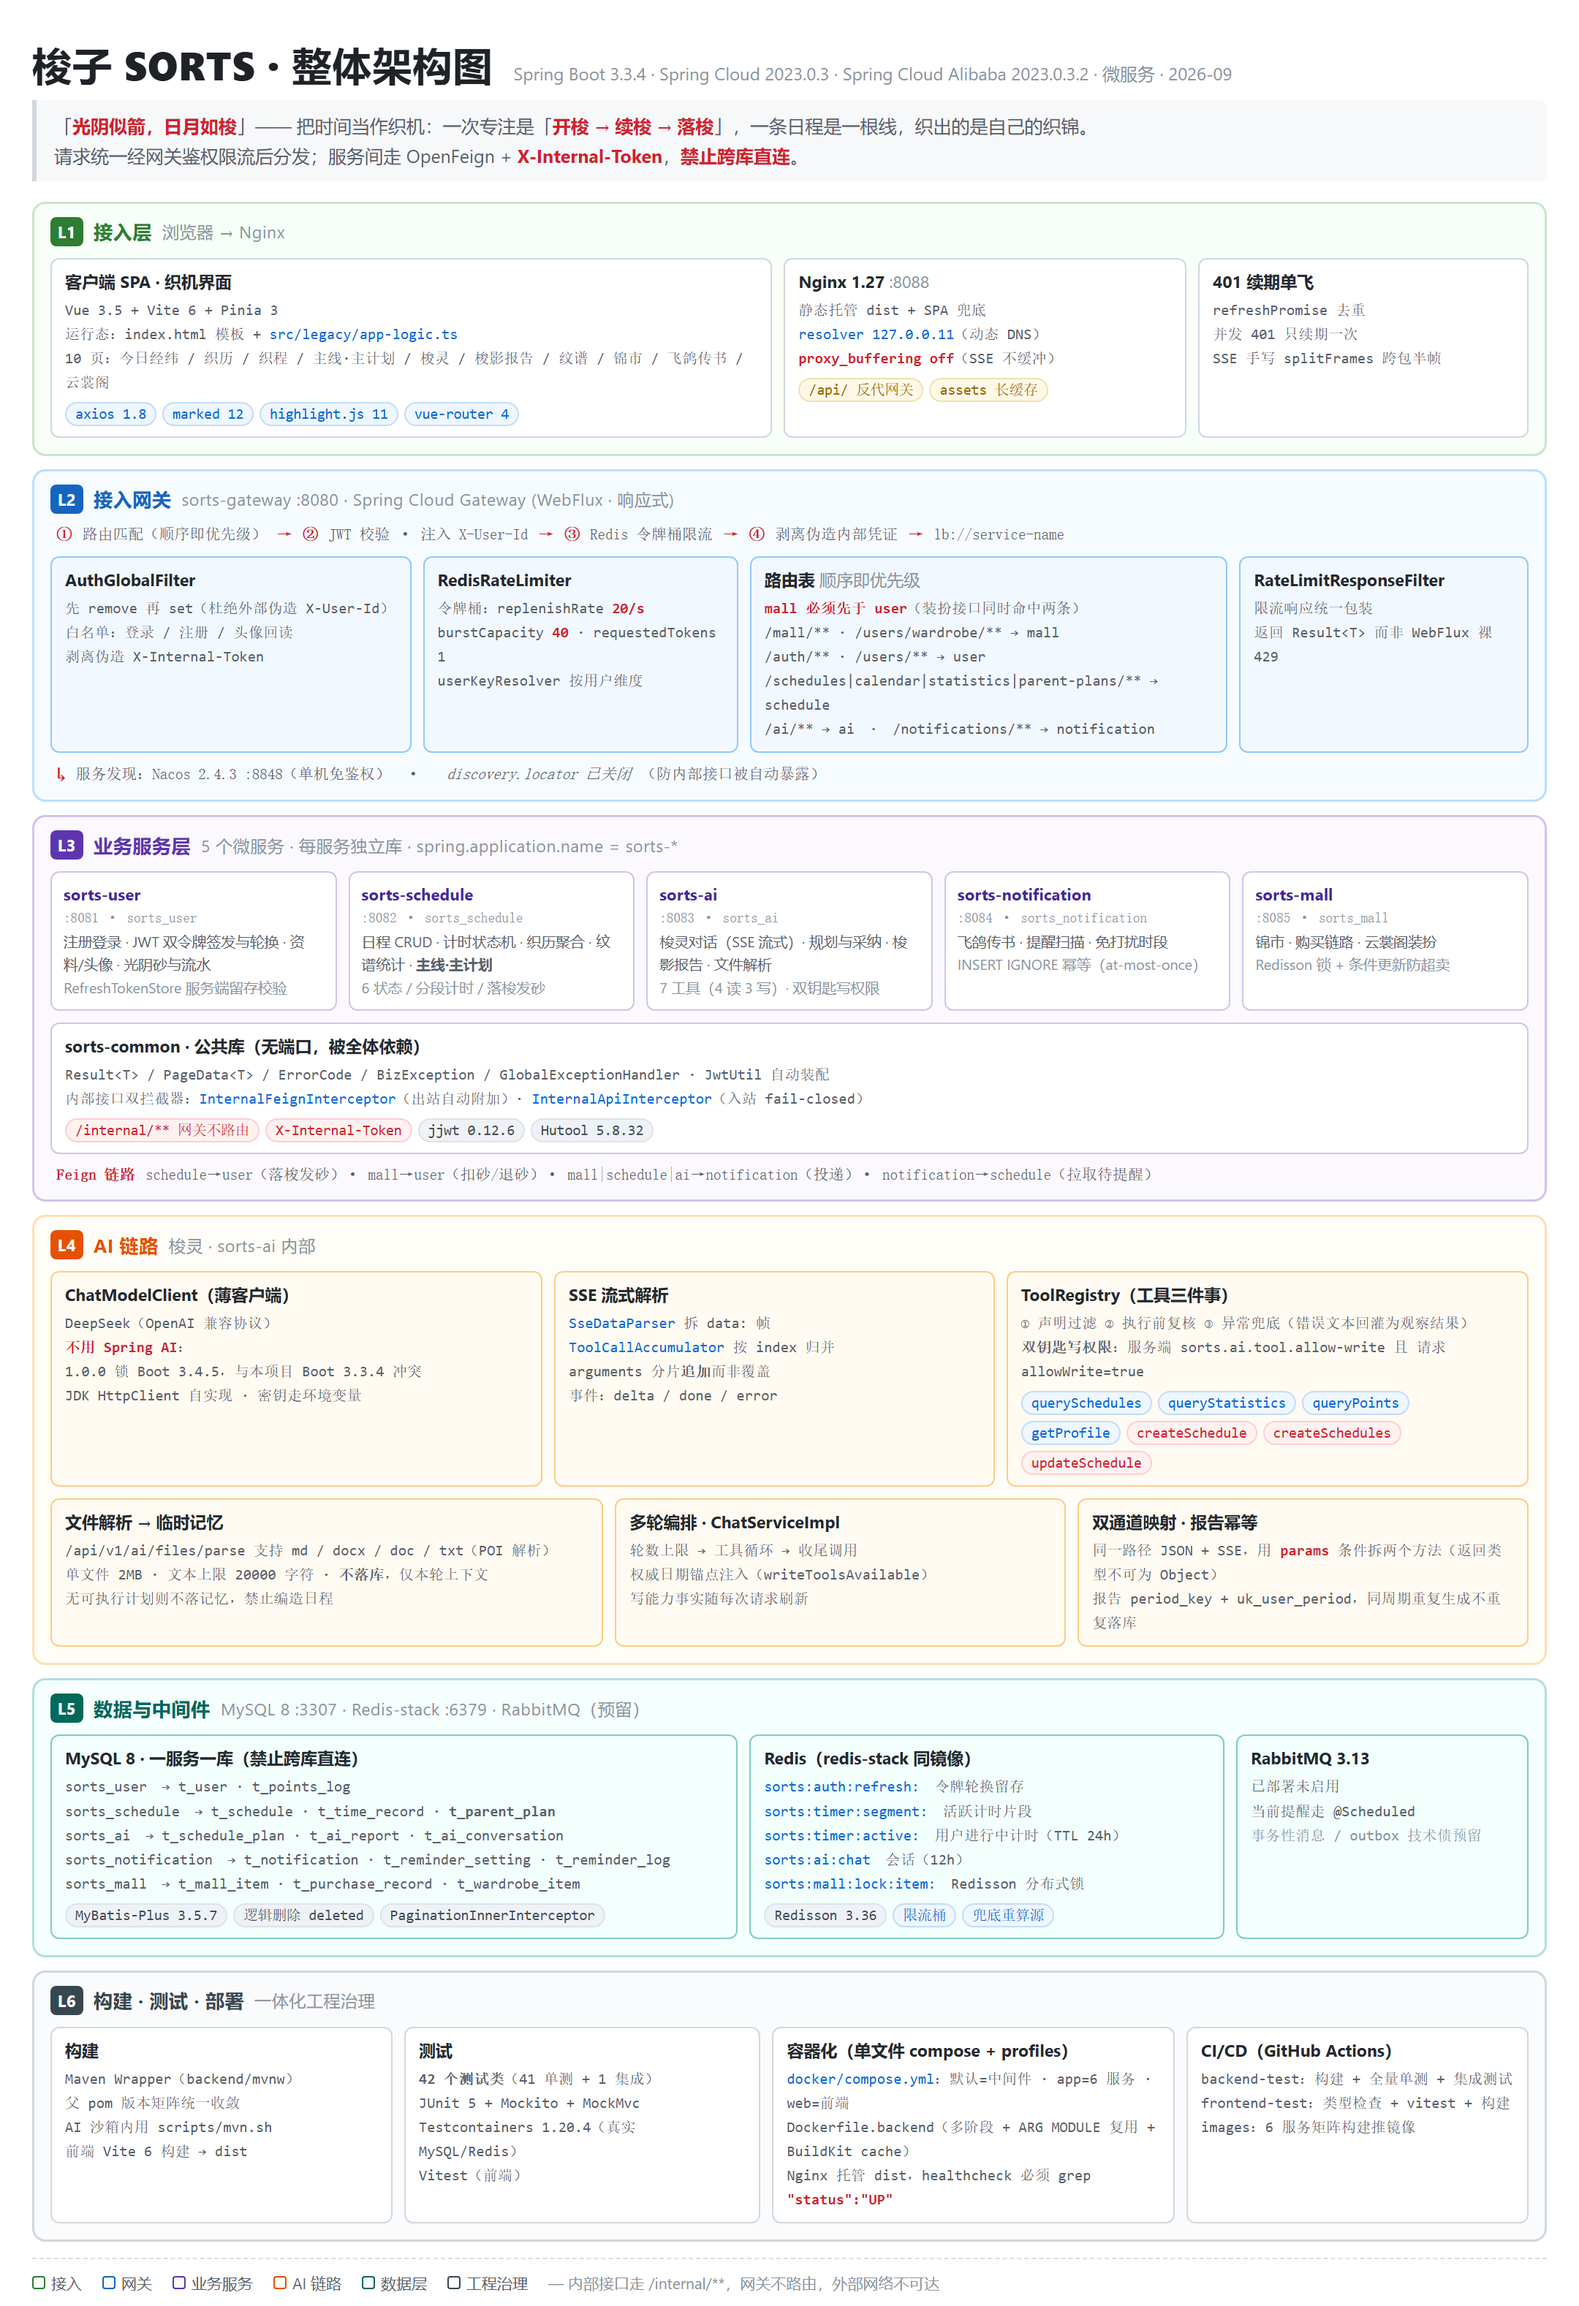
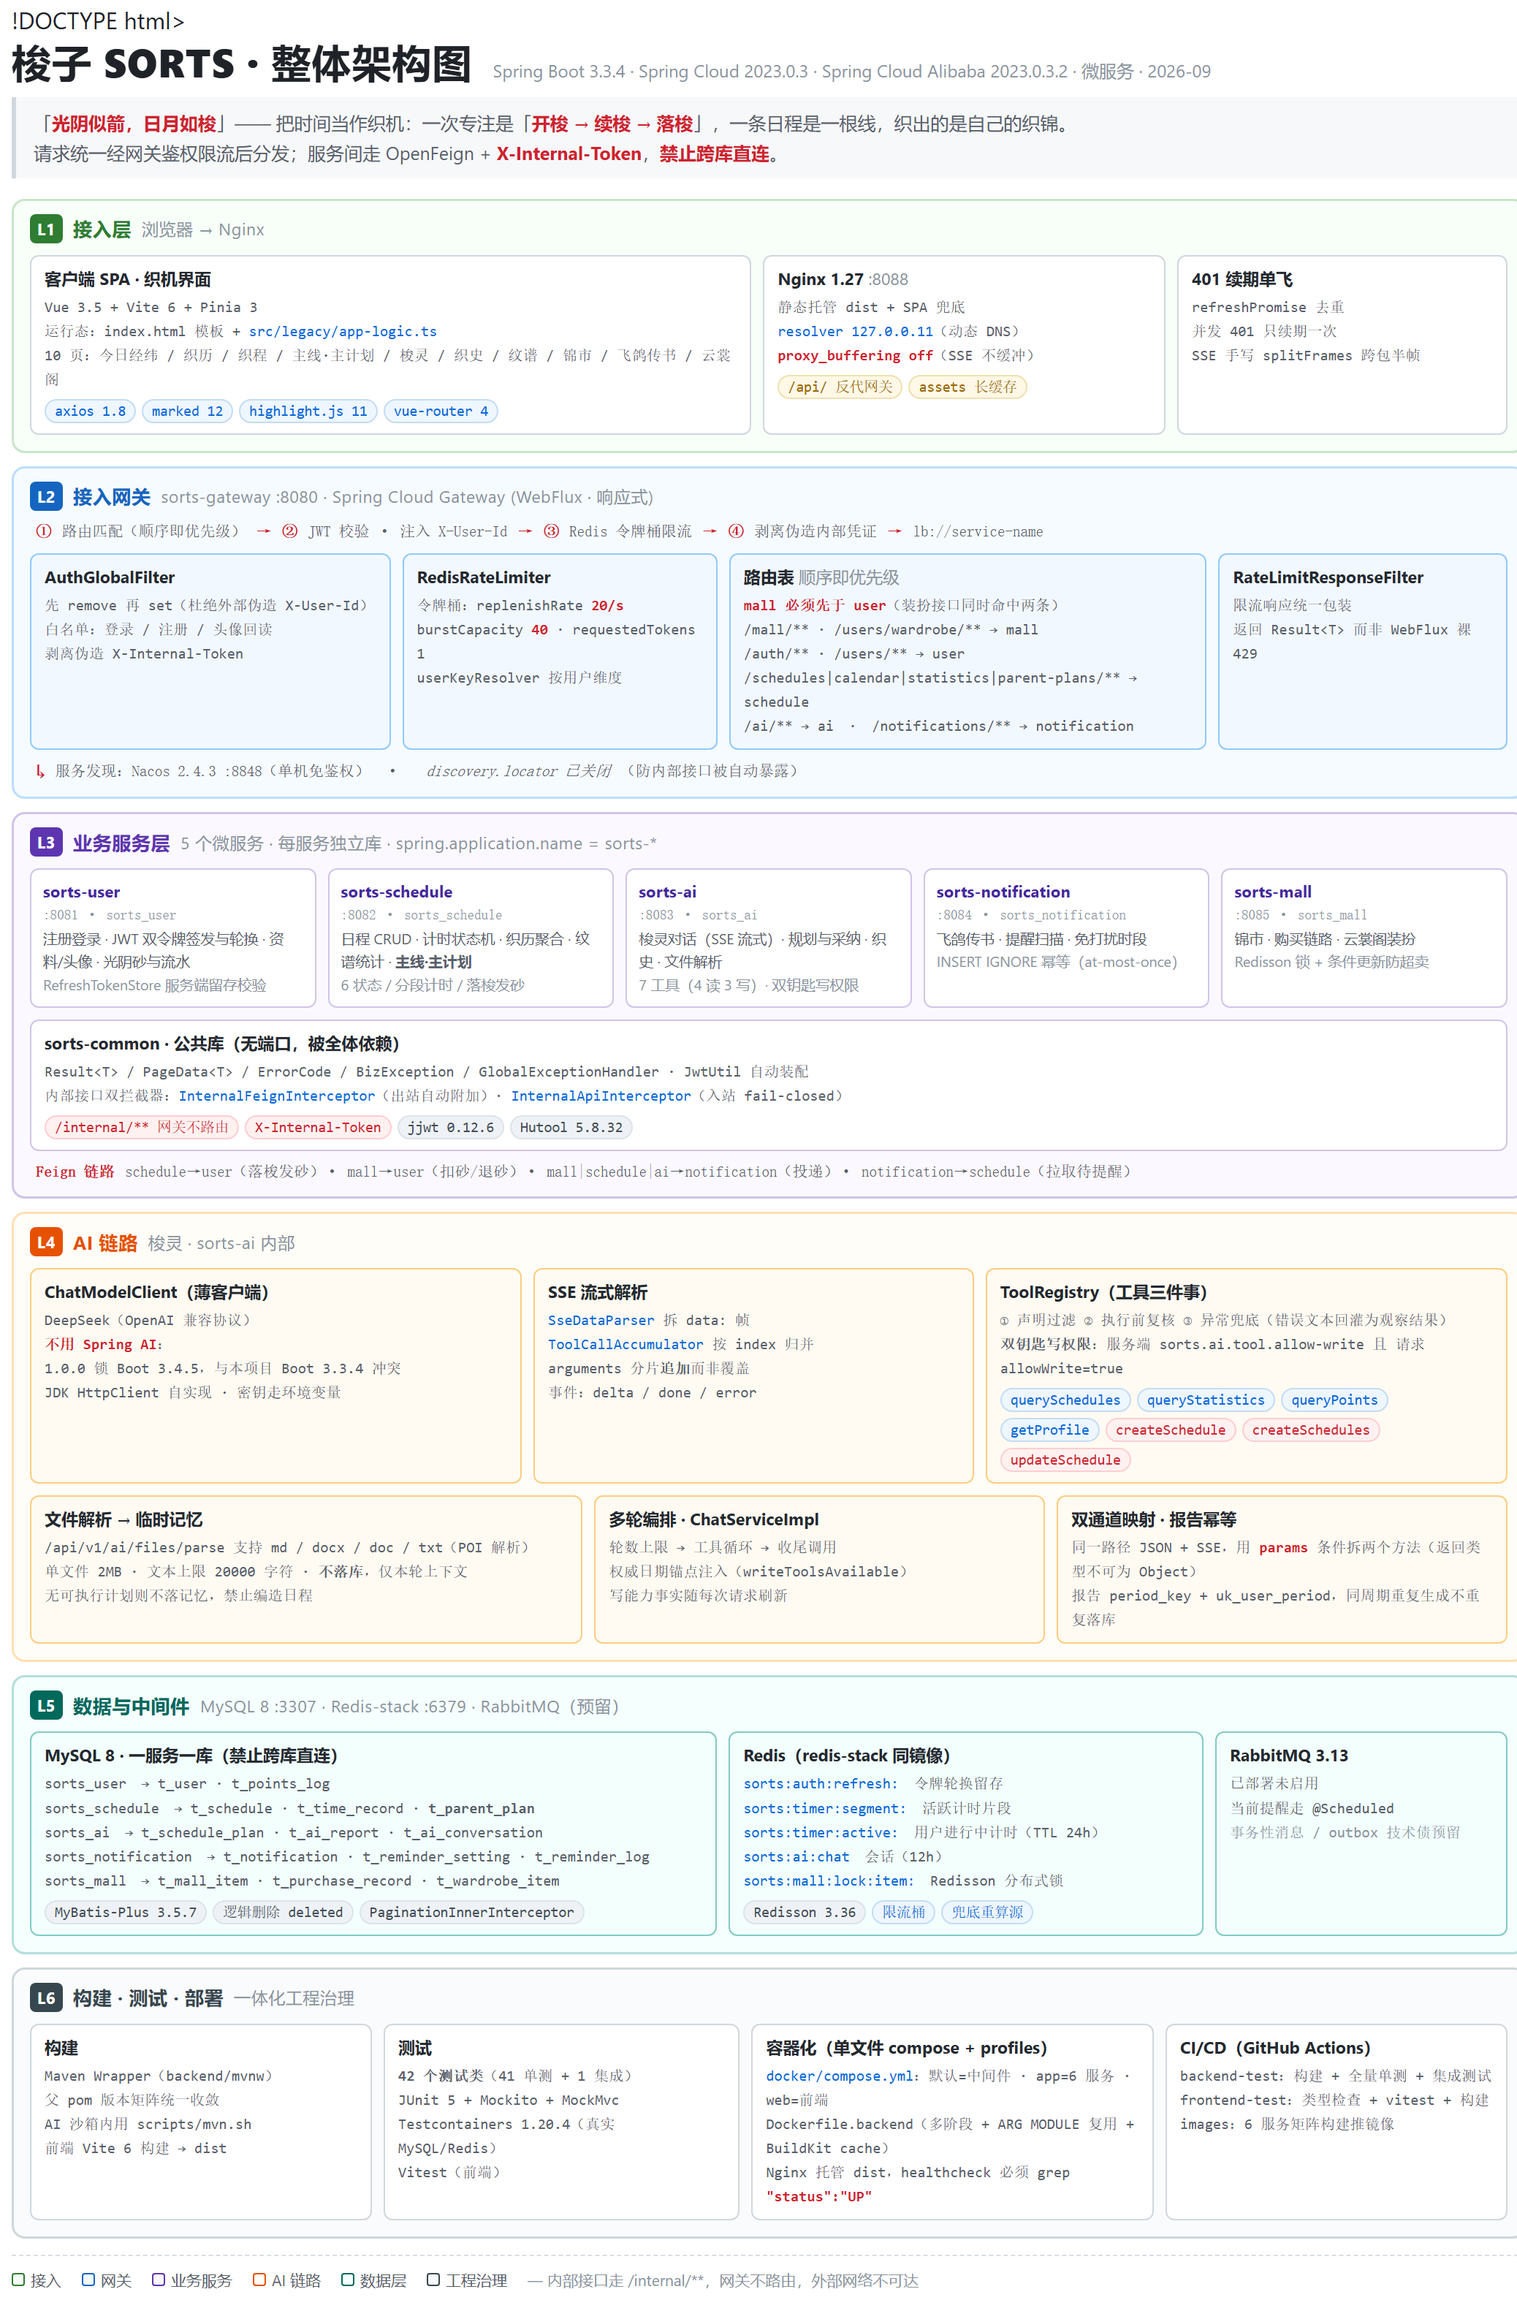
docs(assets): 架构图术语「梭影报告」→「织史」并重新渲染 PNG

diff --git a/docs/assets/architecture.html b/docs/assets/architecture.html
@@ -128,7 +128,7 @@
   <div class="row" data-page-node-id="ZpWzIE3eWIf8S1t0R5H2p9">
     <div class="box" style="flex:1.15" data-page-node-id="JlTAAyBmEKBWssKfvyMqDo">
       <div class="bt" data-page-node-id="hwvESwWPTqTFc5cF3DC5e4">客户端 SPA · 织机界面</div>
-      <div class="bl" data-page-node-id="17ERXsX4jo5NbaeMSvTPsa">Vue 3.5 + Vite 6 + Pinia 3<br data-page-node-id="h7VXIlQHyUb6icfRUJe5s4">运行态：index.html 模板 + <em data-page-node-id="Tu6URE3Gl5gzdPADgyh51w">src/legacy/app-logic.ts</em><br data-page-node-id="ESPKjrfYep9gS9zjBk2a5B">10 页：今日经纬 / 织历 / 织程 / 主线·主计划 / 梭灵 / 梭影报告 / 纹谱 / 锦市 / 飞鸽传书 / 云裳阁</div>
+      <div class="bl" data-page-node-id="17ERXsX4jo5NbaeMSvTPsa">Vue 3.5 + Vite 6 + Pinia 3<br data-page-node-id="h7VXIlQHyUb6icfRUJe5s4">运行态：index.html 模板 + <em data-page-node-id="Tu6URE3Gl5gzdPADgyh51w">src/legacy/app-logic.ts</em><br data-page-node-id="ESPKjrfYep9gS9zjBk2a5B">10 页：今日经纬 / 织历 / 织程 / 主线·主计划 / 梭灵 / 织史 / 纹谱 / 锦市 / 飞鸽传书 / 云裳阁</div>
       <div class="chips" data-page-node-id="E1pq3ORdzDXacEtnsLP8kF"><span class="chip cool" data-page-node-id="uJVQu0iAZXwrLcXVcEJg1H">axios 1.8</span><span class="chip cool" data-page-node-id="xRKjzYh0libZiBCzGXDvGv">marked 12</span><span class="chip cool" data-page-node-id="S8xPZOgIS9FBZ5yZnbXGab">highlight.js 11</span><span class="chip cool" data-page-node-id="Mz1iyBNMUADT6yJZ7OpuDa">vue-router 4</span></div>
     </div>
     <div class="box" style="flex:.62" data-page-node-id="igajcdEQn2f30Y2luzEm3T">
@@ -190,7 +190,7 @@
     </div>
     <div class="svc" data-page-node-id="G7q4a7jlFQYv3KaqLKyrH0">
       <div class="sn" data-page-node-id="POMNFmGcQB7bR2wFYdiY9j">sorts-ai</div><div class="sp" data-page-node-id="Sv5E6XwYknjSRDgp9DDA8e">:8083 · sorts_ai</div>
-      <div class="sd" data-page-node-id="WTIS13lBOqnYTrTCMBnAwL">梭灵对话（SSE 流式）· 规划与采纳 · 梭影报告 · 文件解析<br data-page-node-id="ZxsdD0TDANqDypAm26mrXV"><span style="color:#8b949e" data-page-node-id="txmbjggZD2DwFHMpLoG3I5">7 工具（4 读 3 写）· 双钥匙写权限</span></div>
+      <div class="sd" data-page-node-id="WTIS13lBOqnYTrTCMBnAwL">梭灵对话（SSE 流式）· 规划与采纳 · 织史 · 文件解析<br data-page-node-id="ZxsdD0TDANqDypAm26mrXV"><span style="color:#8b949e" data-page-node-id="txmbjggZD2DwFHMpLoG3I5">7 工具（4 读 3 写）· 双钥匙写权限</span></div>
     </div>
     <div class="svc" data-page-node-id="Cs2ndE8XrJH7tuh8jepHwi">
       <div class="sn" data-page-node-id="1mcMThVGuYrzfYsMcGmRhN">sorts-notification</div><div class="sp" data-page-node-id="XmiH5NB85XjxFrC8dK0KK0">:8084 · sorts_notification</div>
